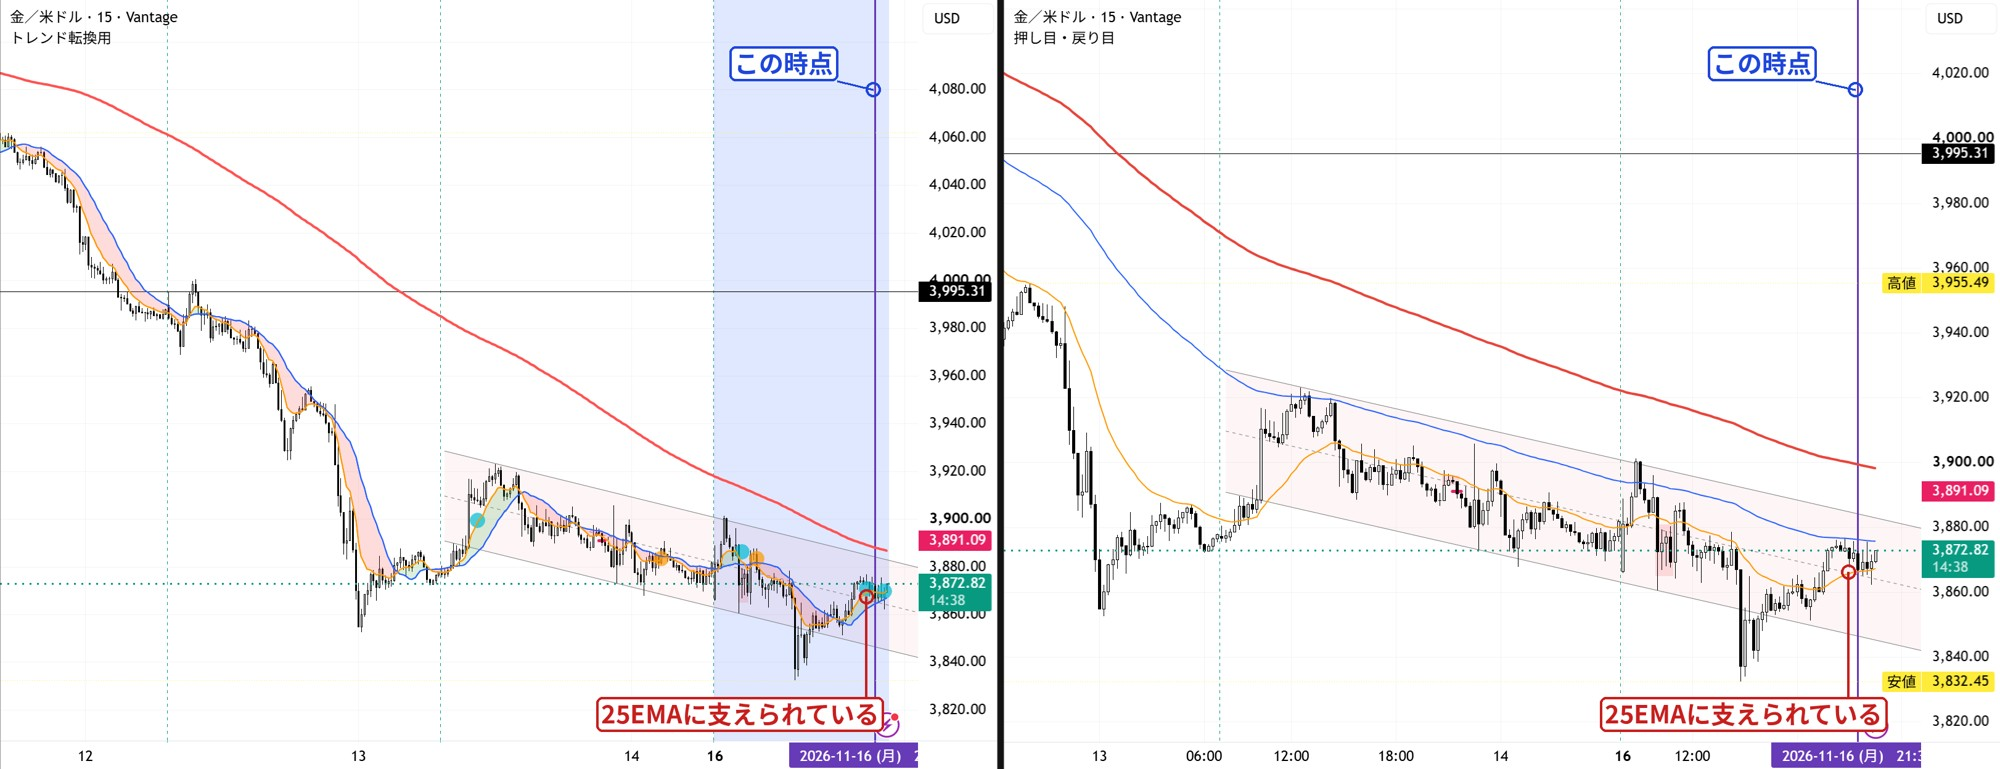
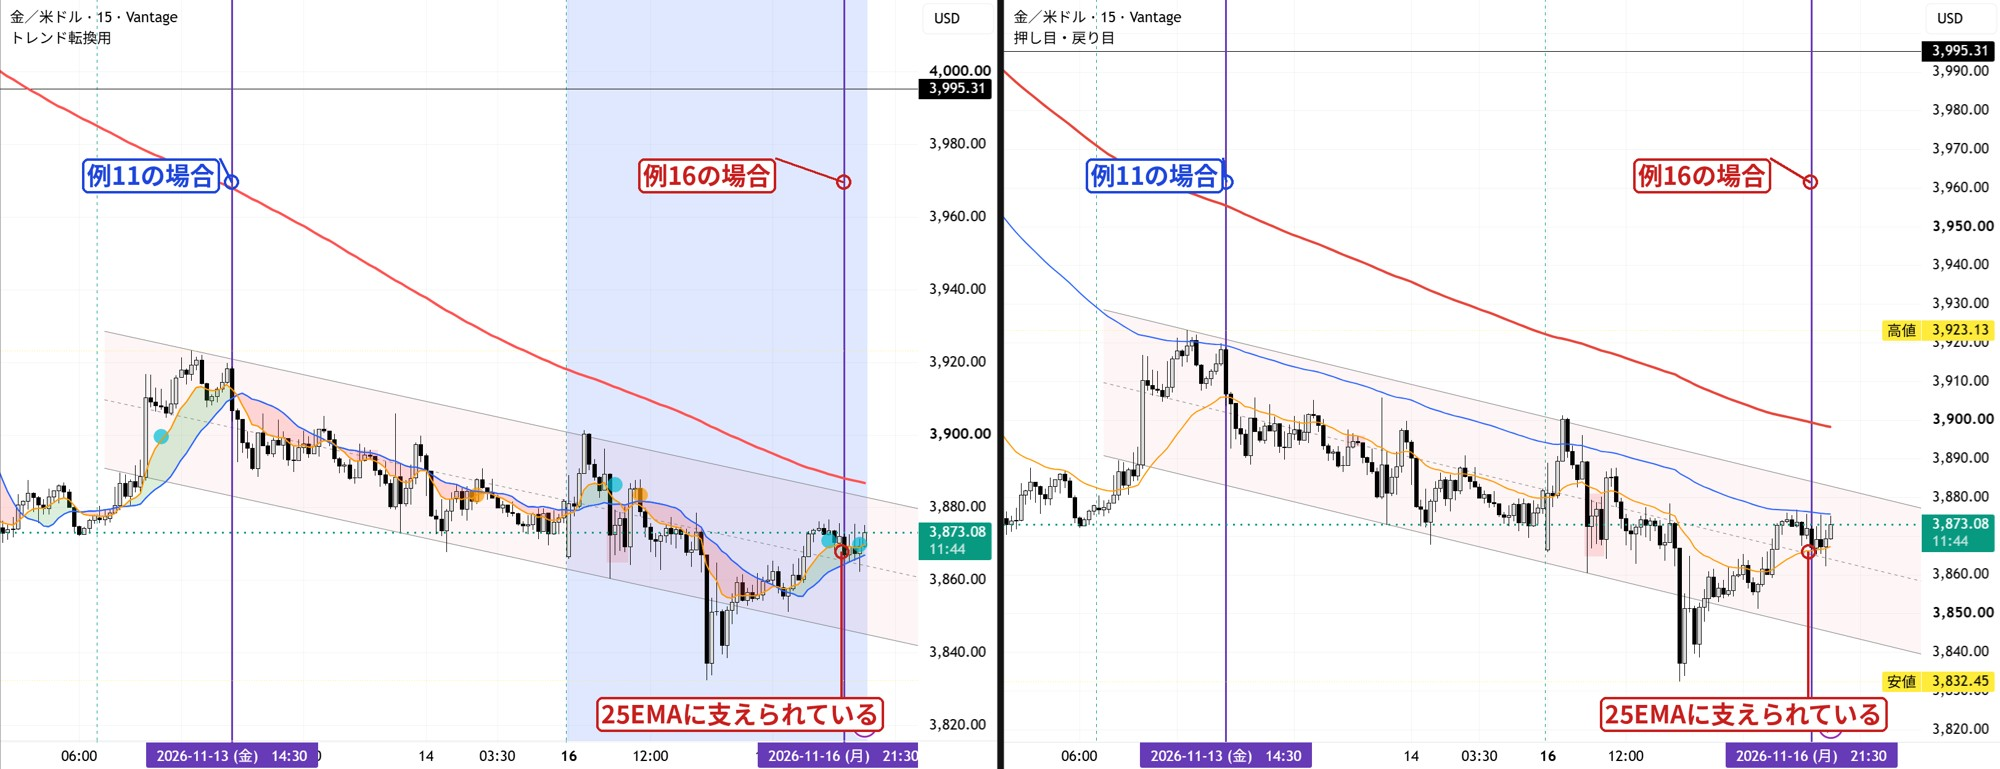
例16: 15分足の図を差し替え（例11の縦線も追加）
Claude-Session: https://claude.ai/code/session_01HxS9YaEfLR2yPnioVsHz63

diff --git a/reversal.html b/reversal.html
@@ -106,7 +106,7 @@ body.lb-open { overflow: hidden; }
     </ul>
     <h3 class="part">上位足（15分足）</h3>
     <figure class="pic wide">
-      <a href="methods/rev-15m-support.jpg"><img src="methods/rev-15m-support.jpg" alt="15分足。縦線の時点で、25EMAに支えられている" loading="lazy"></a>
+      <a href="methods/rev-15m-support.jpg"><img src="methods/rev-15m-support.jpg" alt="15分足。左の縦線が例11、右の縦線が例16。例16は25EMAに支えられている" loading="lazy"></a>
     </figure>
     <ul class="cap3">
       <li><b>上位足の15分足で、25EMAに支えられている。</b>縦線の所は、ショートをやめておくべき所だった。</li>
